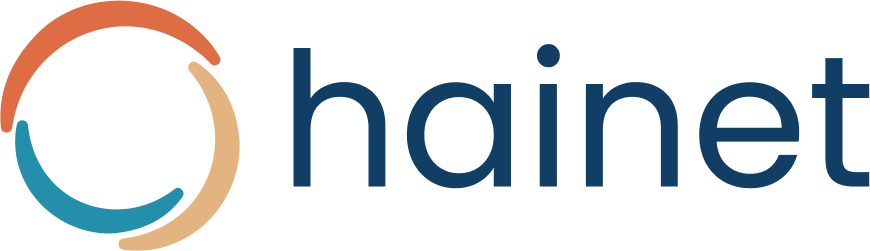
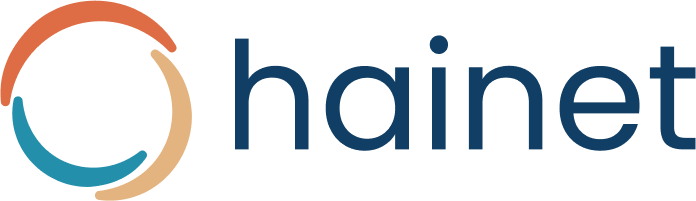
adds more changes

diff --git a/src/components/footer/footer.jsx b/src/components/footer/footer.jsx
@@ -7,7 +7,7 @@ export default function Footer() {
 		<div className={styles["footer"]}>
 			<div className={styles["footer__container"]}>
 				<div className={styles["footer__left"]}>
-					<img src="./logo--white.png" alt="Prifed Logo" />
+					<img src="./hainet--white.png" alt="Prifed Logo" />
 					<p>
 						<span className="u-color-dark-orange">
 							Privacy Preservation of Data through Federated Learning

diff --git a/src/components/dummy-navbar/dummy-navbar.jsx b/src/components/dummy-navbar/dummy-navbar.jsx
@@ -7,9 +7,9 @@ export default function DummyNavbar() {
 			<div className={styles["navbar__logo__wrapper"]}>
 				<img
 					className={styles["navbar__logo--wordmark"]}
-					src="./logo--white.png"
+					src="./hainet--white.png"
 					alt="Wordmark of Prifed"
-				/>{" "}
+				/>
 				<img
 					className={styles["navbar__logo--pictorial"]}
 					src="./pictorial.png"

diff --git a/src/app.jsx b/src/app.jsx
@@ -30,7 +30,7 @@ export default function App() {
 				menu_items={menu_items}
 				cta_item={cta_item}
 				pictorial="./pictorial.png"
-				wordmark="./logo--white.png"
+				wordmark="./hainet--white.png"
 			/>
 
 			<SymposiumPage />
